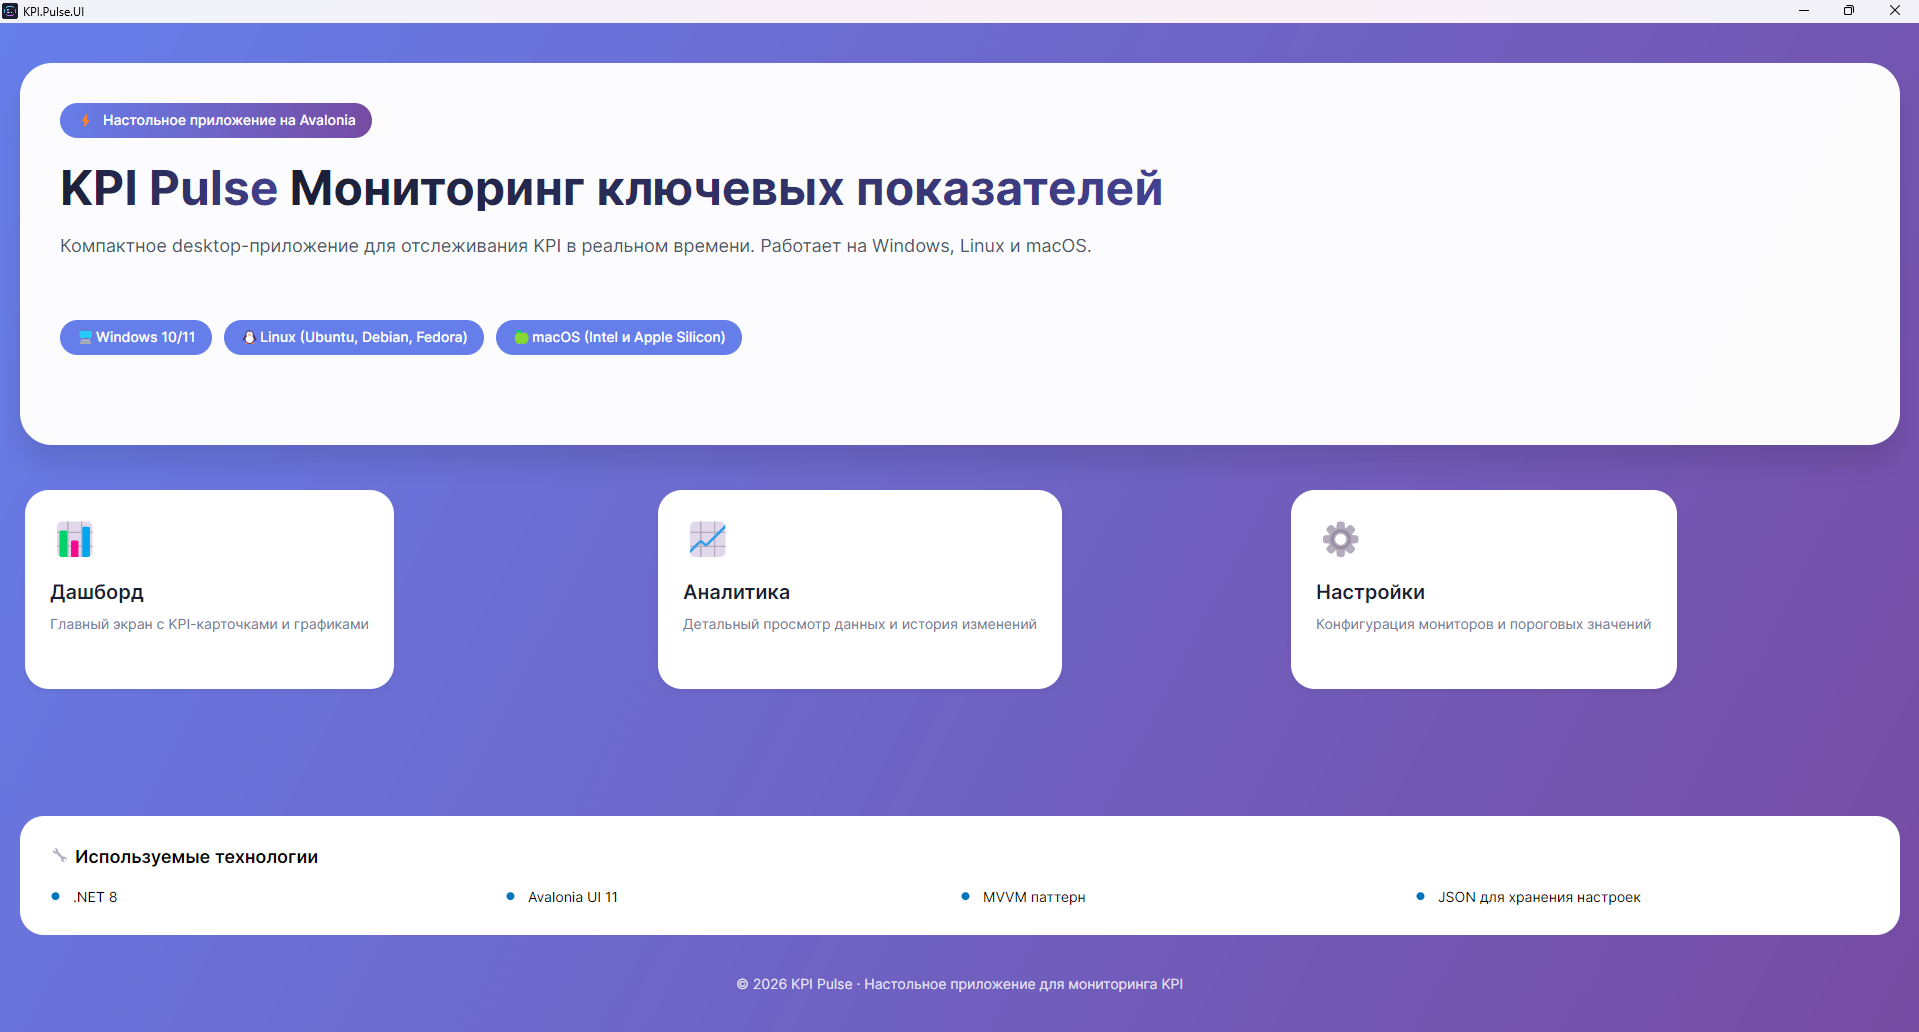
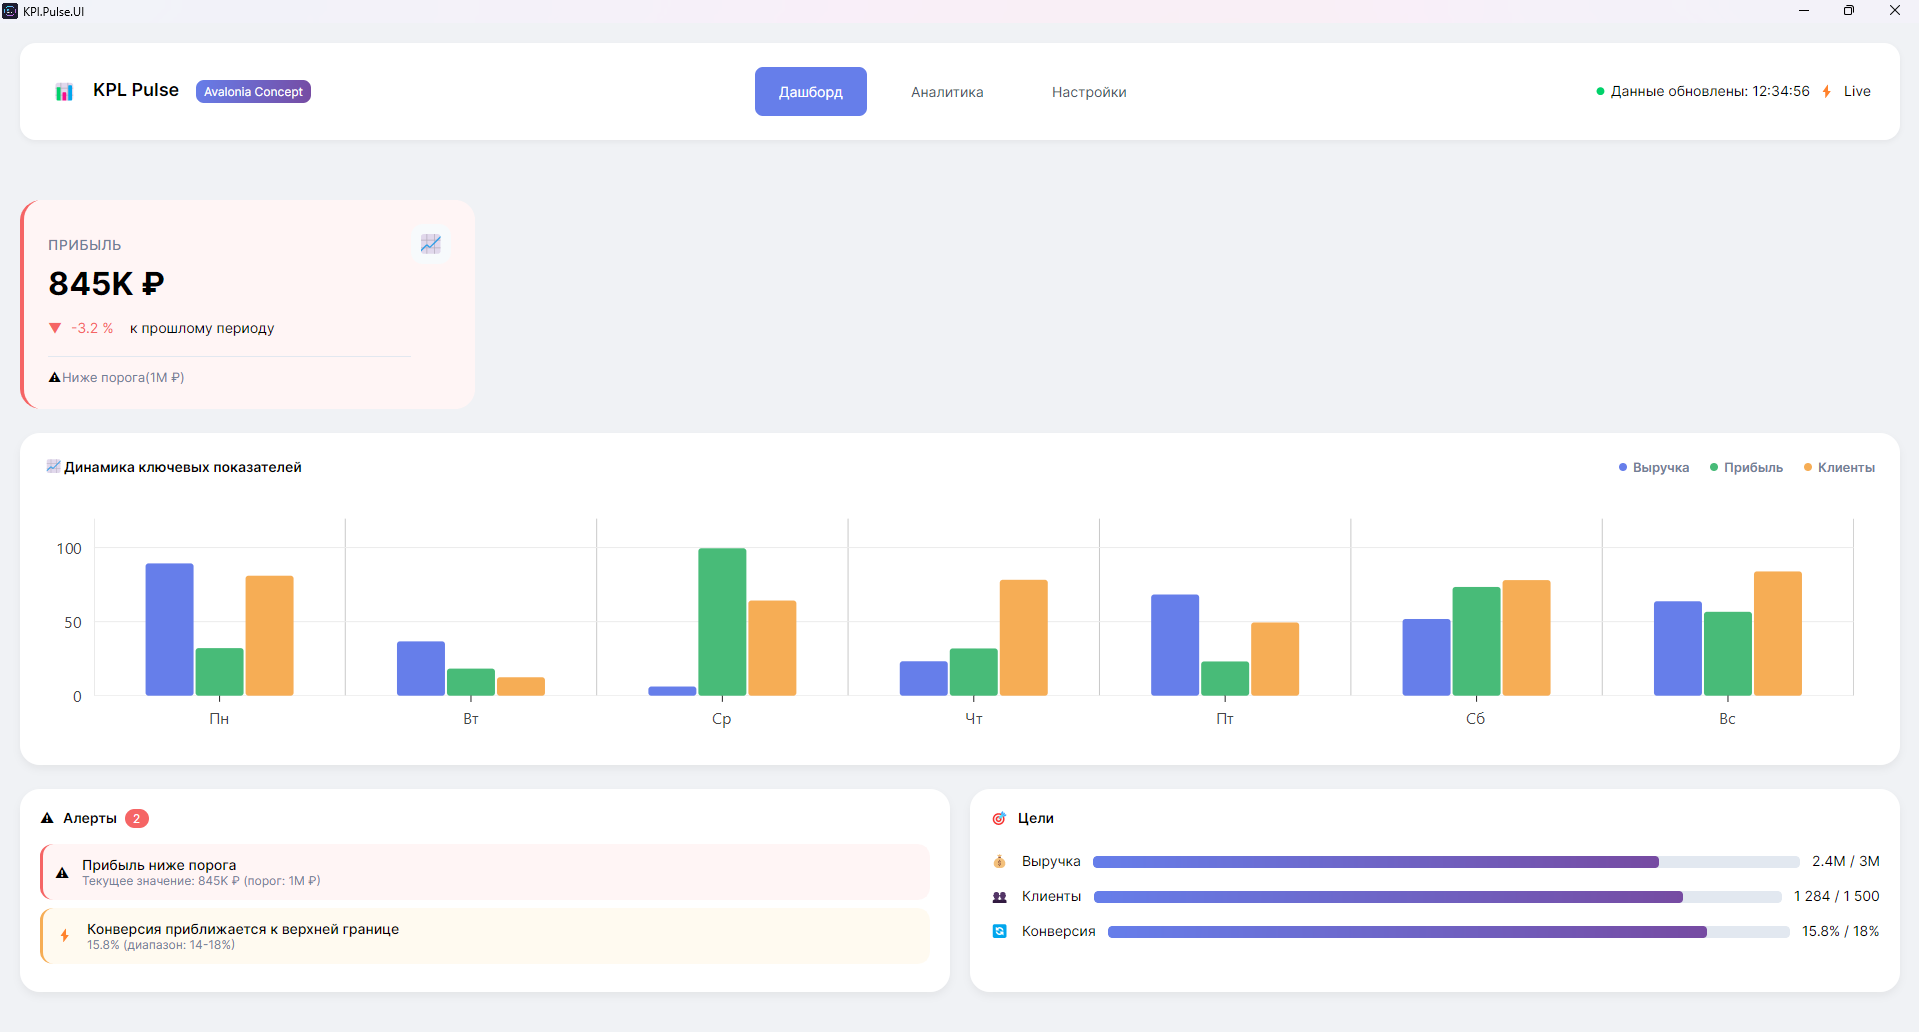
Fix README.md file.

diff --git a/README.md b/README.md
@@ -48,9 +48,15 @@
 ## 🖼 Скриншоты
 
 <p align="center">
-  <img src="screenshots/dashboard.png" alt="Дашборд" width="700"/>
+  <img src="screenshots/main.png" alt="Главная" width="700"/>
   <br/>
   <em>Главный экран с KPI-карточками</em>
+</p>
+
+<p align="center">
+  <img src="screenshots/dashboard.png" alt="Дашборд" width="700"/>
+  <br/>
+  <em>Экран дашборда</em>
 </p>
 
 <p align="center">
